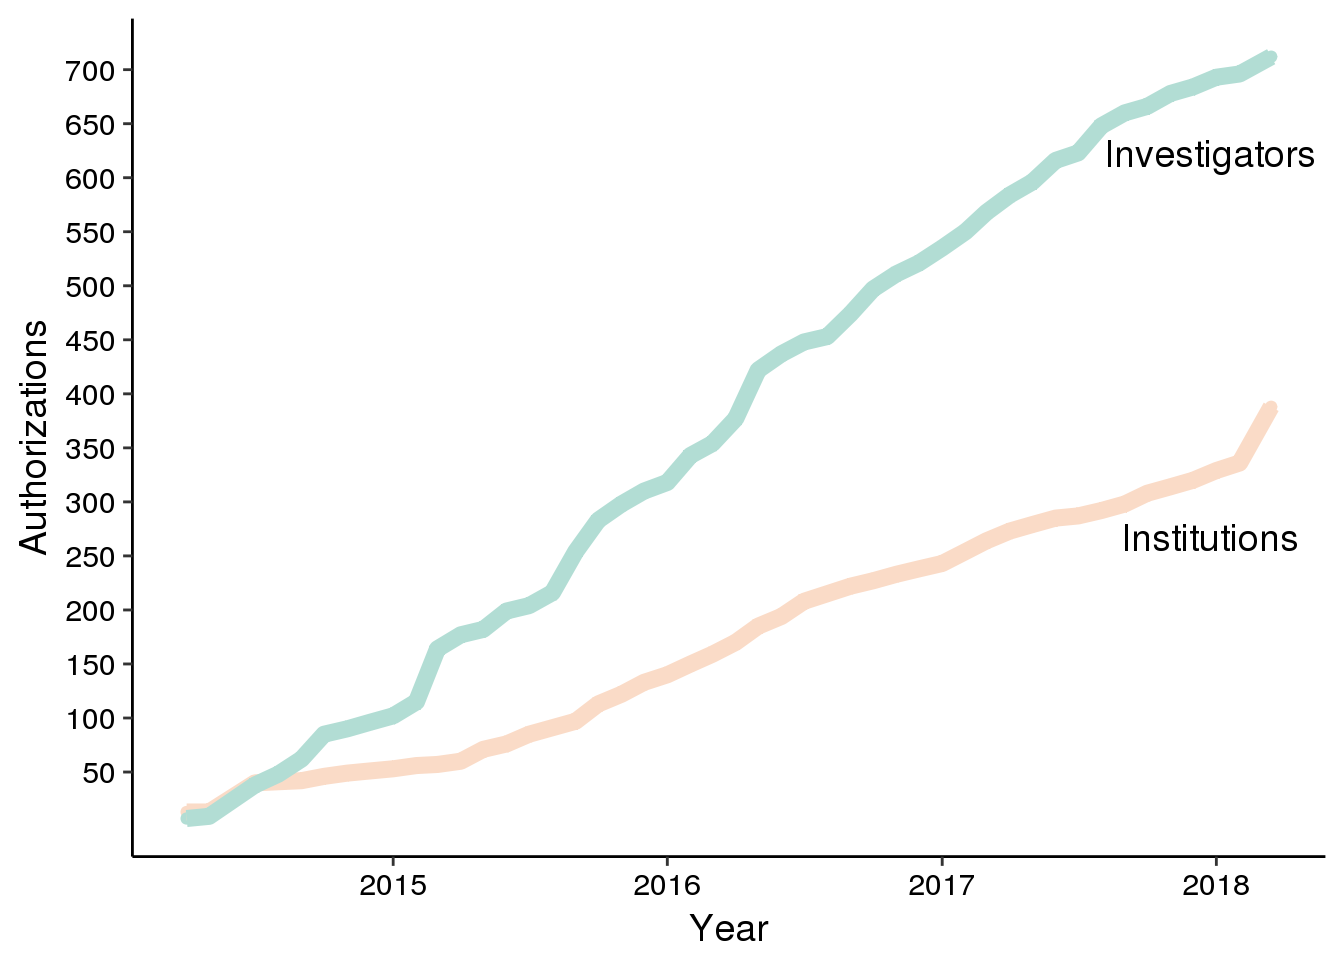
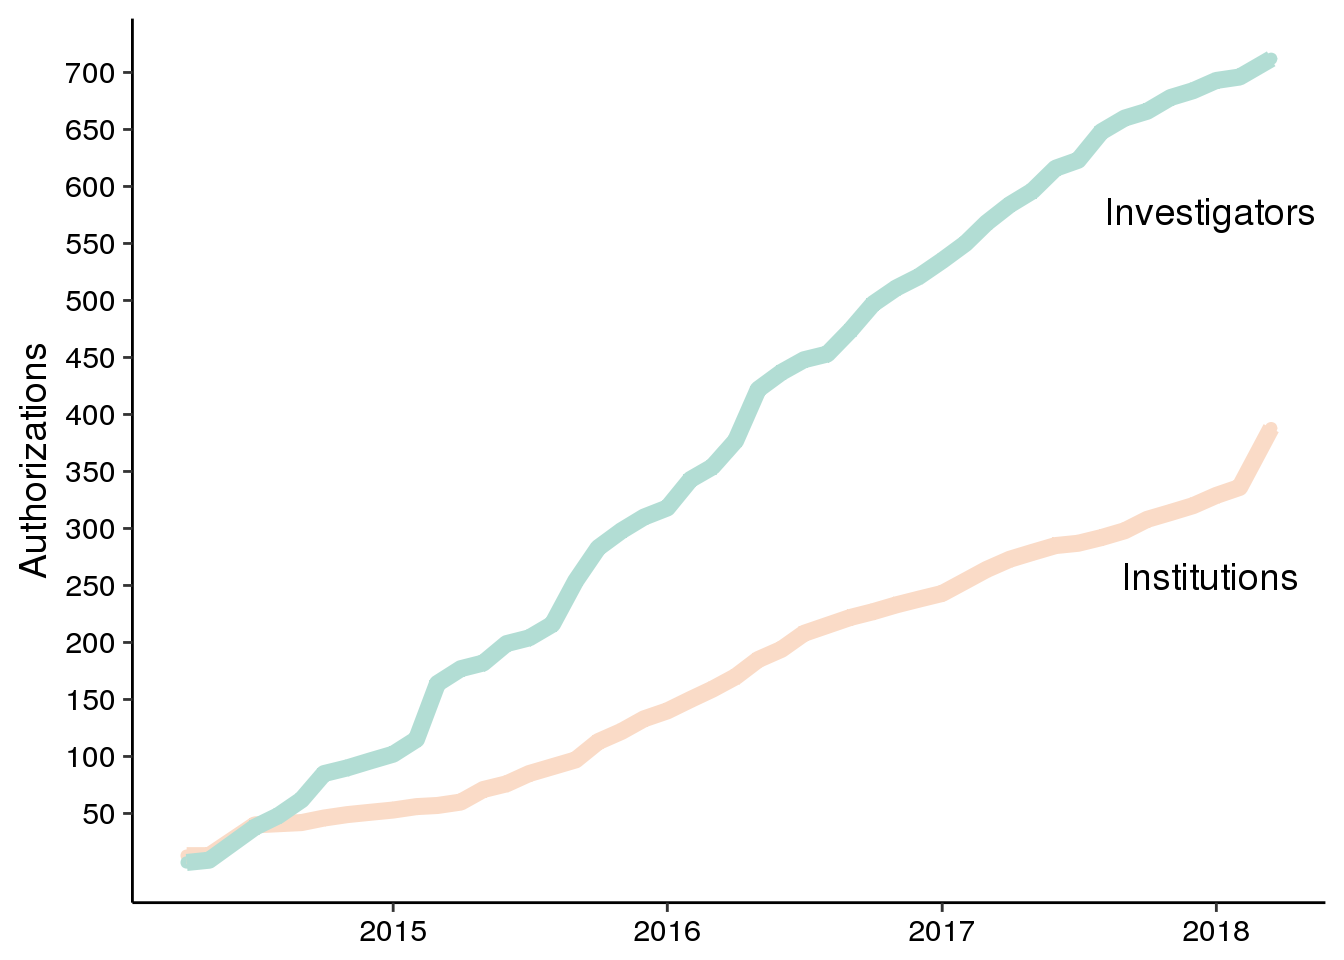
Remove x-axis title

diff --git a/databrary-user-growth.html b/databrary-user-growth.html
@@ -235,7 +235,7 @@ div.tocify {
 
 <h1 class="title toc-ignore">databrary-user-growth</h1>
 <h4 class="author"><em>Andrea R. Seisler</em></h4>
-<h4 class="date"><em>2018-03-15 12:29:53</em></h4>
+<h4 class="date"><em>2018-03-16 07:37:32</em></h4>
 
 </div>
 
@@ -296,14 +296,15 @@ p &lt;-
   theme_classic(base_size = 14) +                        #Axis Label Size
   scale_colour_manual(values=c(&quot;#fadbc7&quot;, &quot;#b2ddd4&quot;)) +  #Databrary Colors
   ylab(&quot;Authorizations&quot;) +
-  xlab(&quot;Year&quot;) +
-  #labs(title=&quot;Databrary User Growth&quot;) +
+  #xlab(&quot;Year&quot;) +
+  #labs(title=&quot;Databrary User Growth&quot;) 
+  theme(axis.title.x=element_blank()) +
   theme(legend.position=&quot;none&quot;, axis.text = element_text(size = rel(0.8), colour = &quot;black&quot;)) +    #Axis text size and color
   scale_y_continuous(breaks = c(50,100,150,200,250,300,350,400,450,500,550,600,650,700,750)) 
   
 ggdraw(p) + 
-  draw_label(&quot;Investigators&quot;, .9, .84) +
-  draw_label(&quot;Institutions&quot;, .9, .44)</code></pre>
+  draw_label(&quot;Investigators&quot;, .9, .78) +
+  draw_label(&quot;Institutions&quot;, .9, .4)</code></pre>
 <p><img src="databrary-user-growth_files/figure-html/p-user-growth-plot-1.png" width="672" /></p>
 </div>
 
